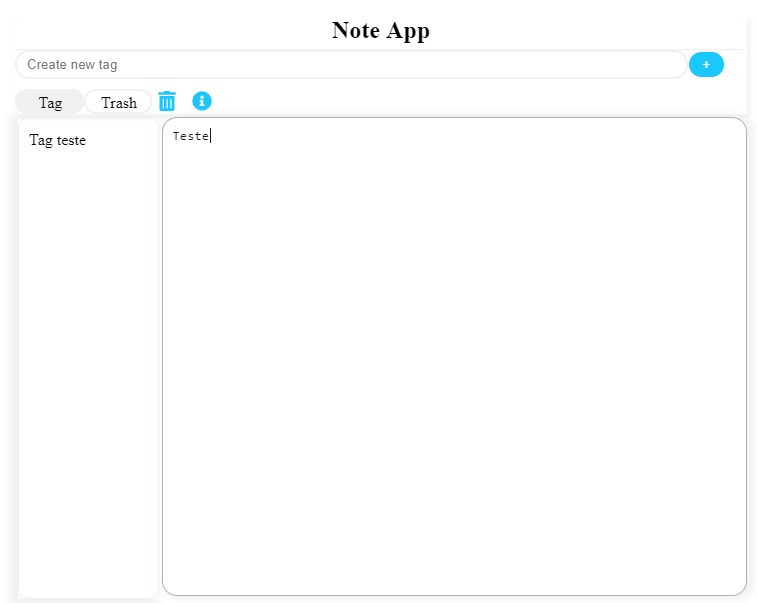
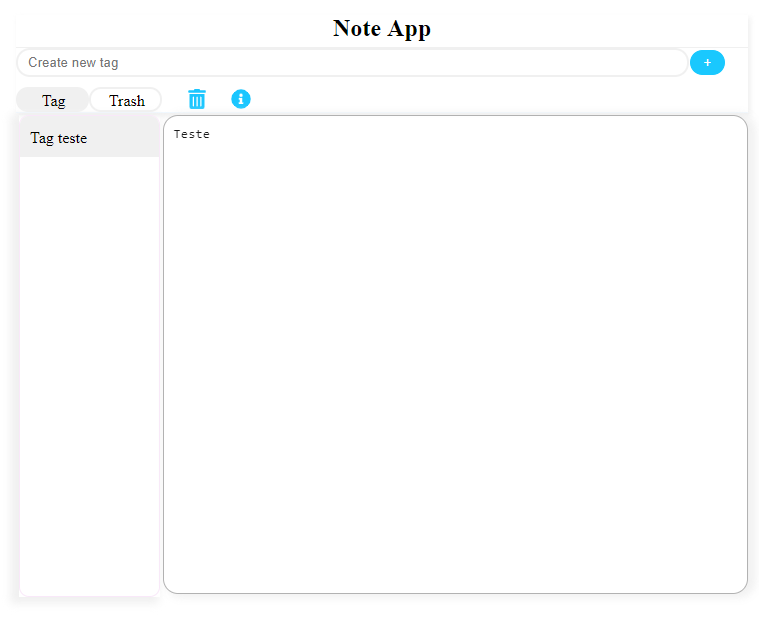
atualizacoes

diff --git a/src/Components/Icons.js b/src/Components/Icons.js
@@ -19,7 +19,22 @@ export const IconWrapper = styled.span`
     : ''
     } 
 
-    @media (width: 320px) {
+    @media (max-width: 768px) {
+        ${props => props.trash ? `
+        top: 3px;
+        left: 25px;` : ''}
+    }
+
+    @media (width: 768px) {
+    ${props => props.info ? `
+        top: 3px;
+        left: 24px;
+    ` 
+    : '' }
+    padding-right: 10px;
+    }
+
+    @media (max-width: 320px) {
     ${props => props.trash ? `
         top: 3px;
         float: right;

diff --git a/src/Components/Navbar.js b/src/Components/Navbar.js
@@ -84,6 +84,9 @@ span {
   input {
     width: 90%;
   }
+  ul {
+    width: 20%;
+  }
   button {
     padding: 0.35em 1.0em;
   }
